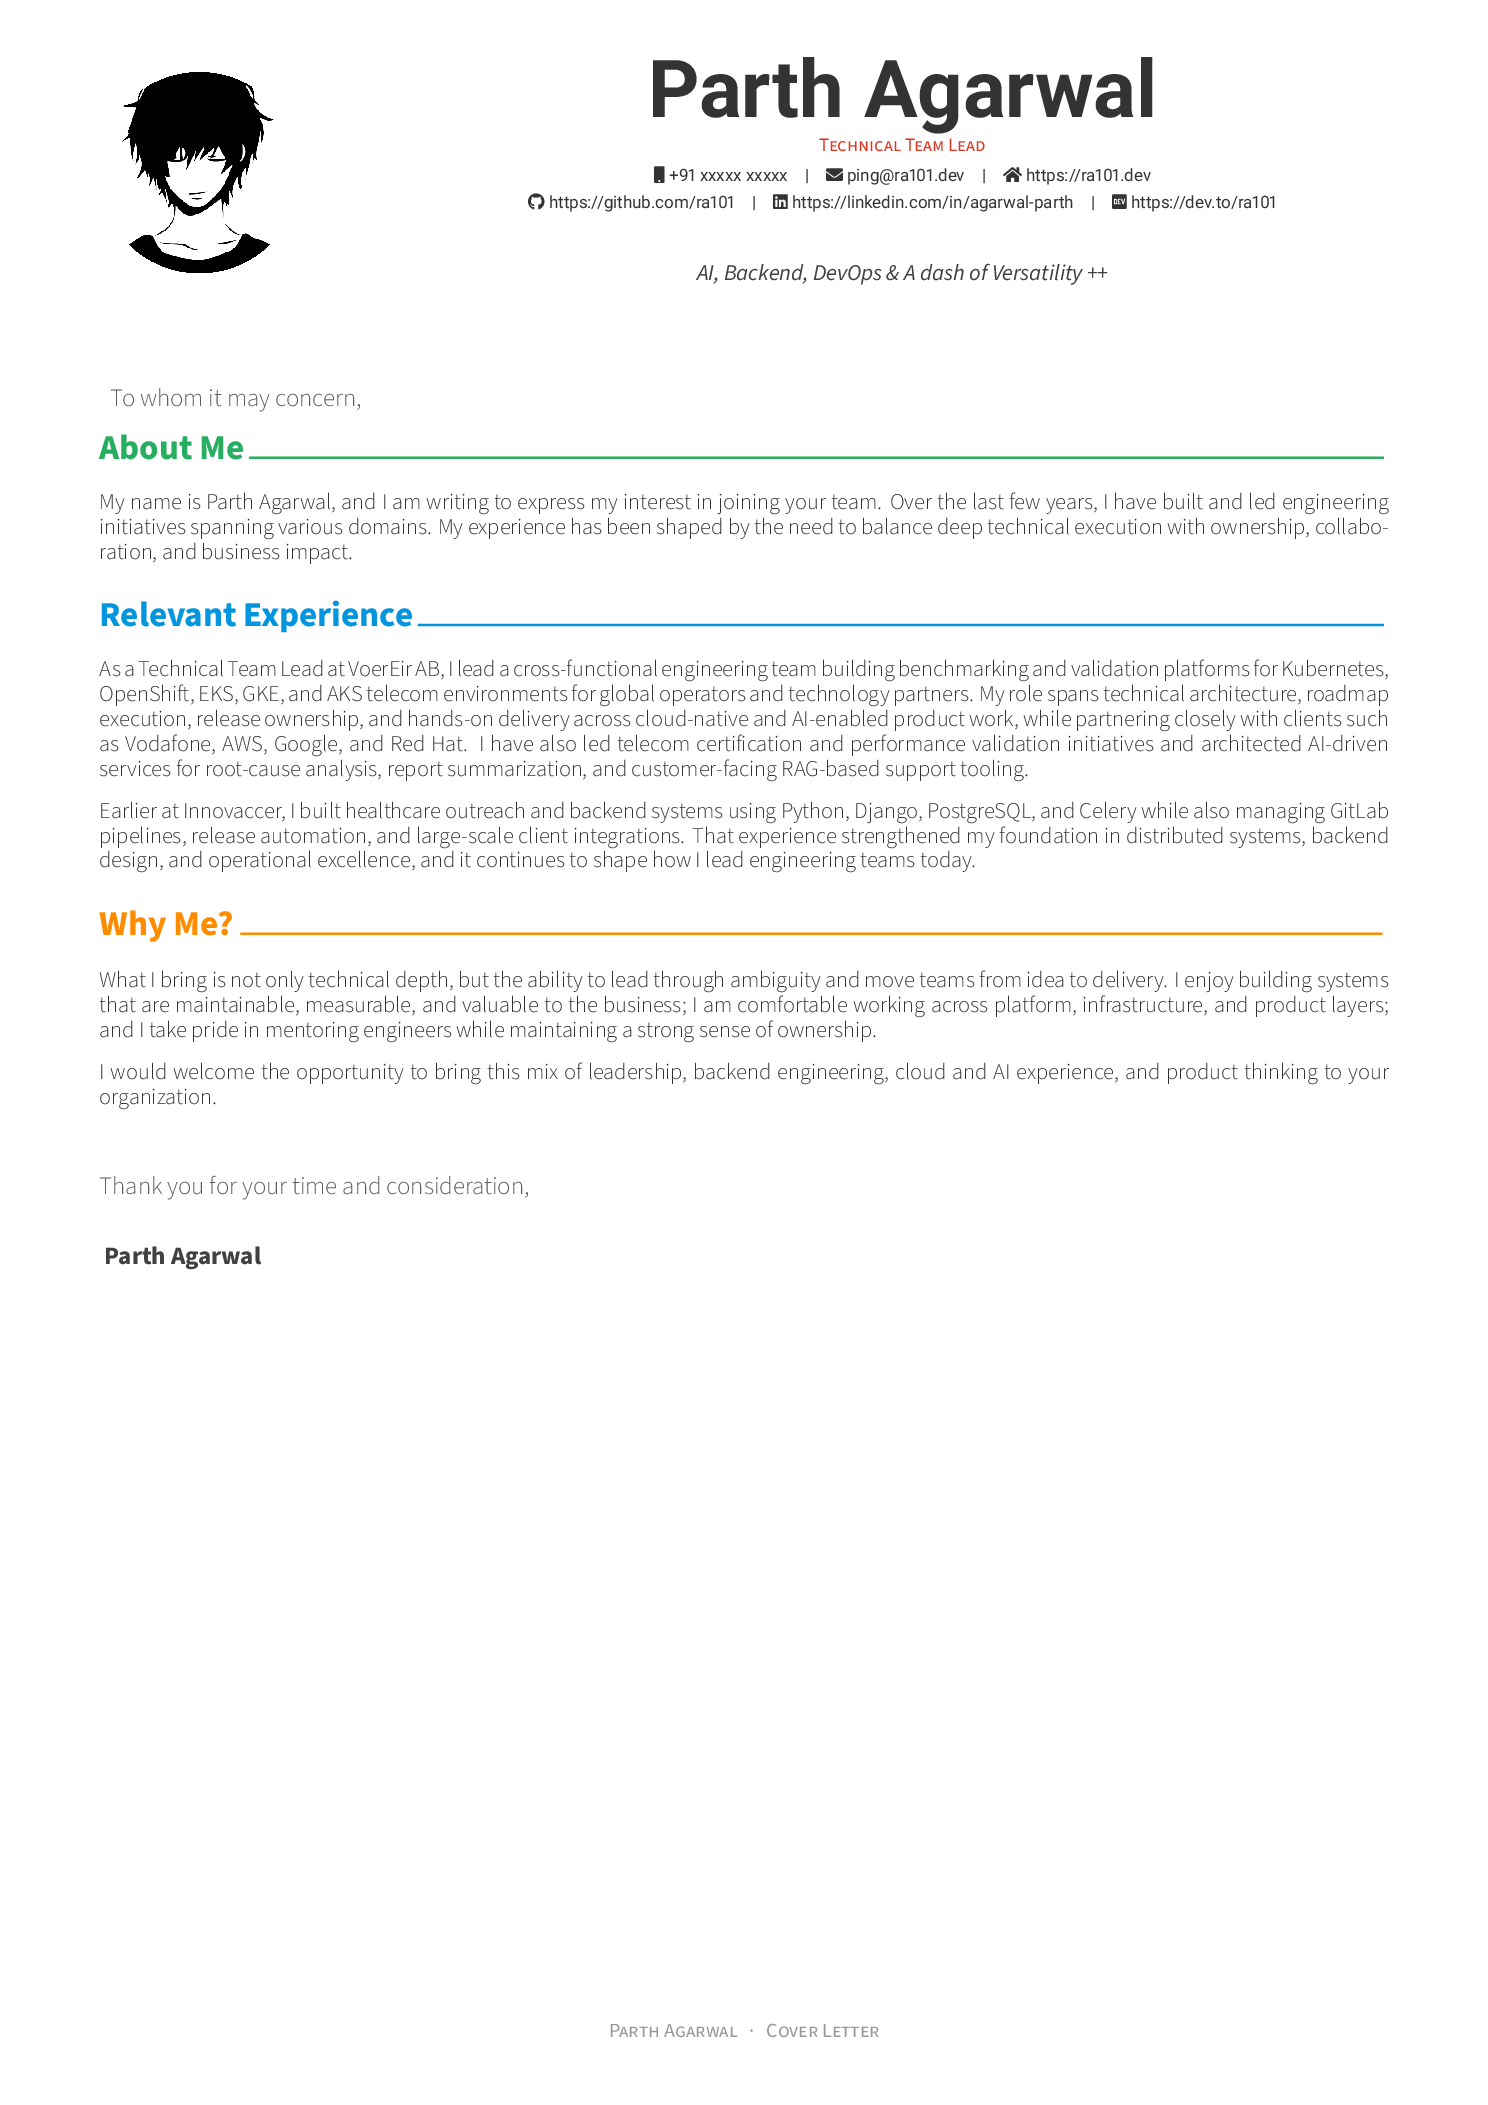
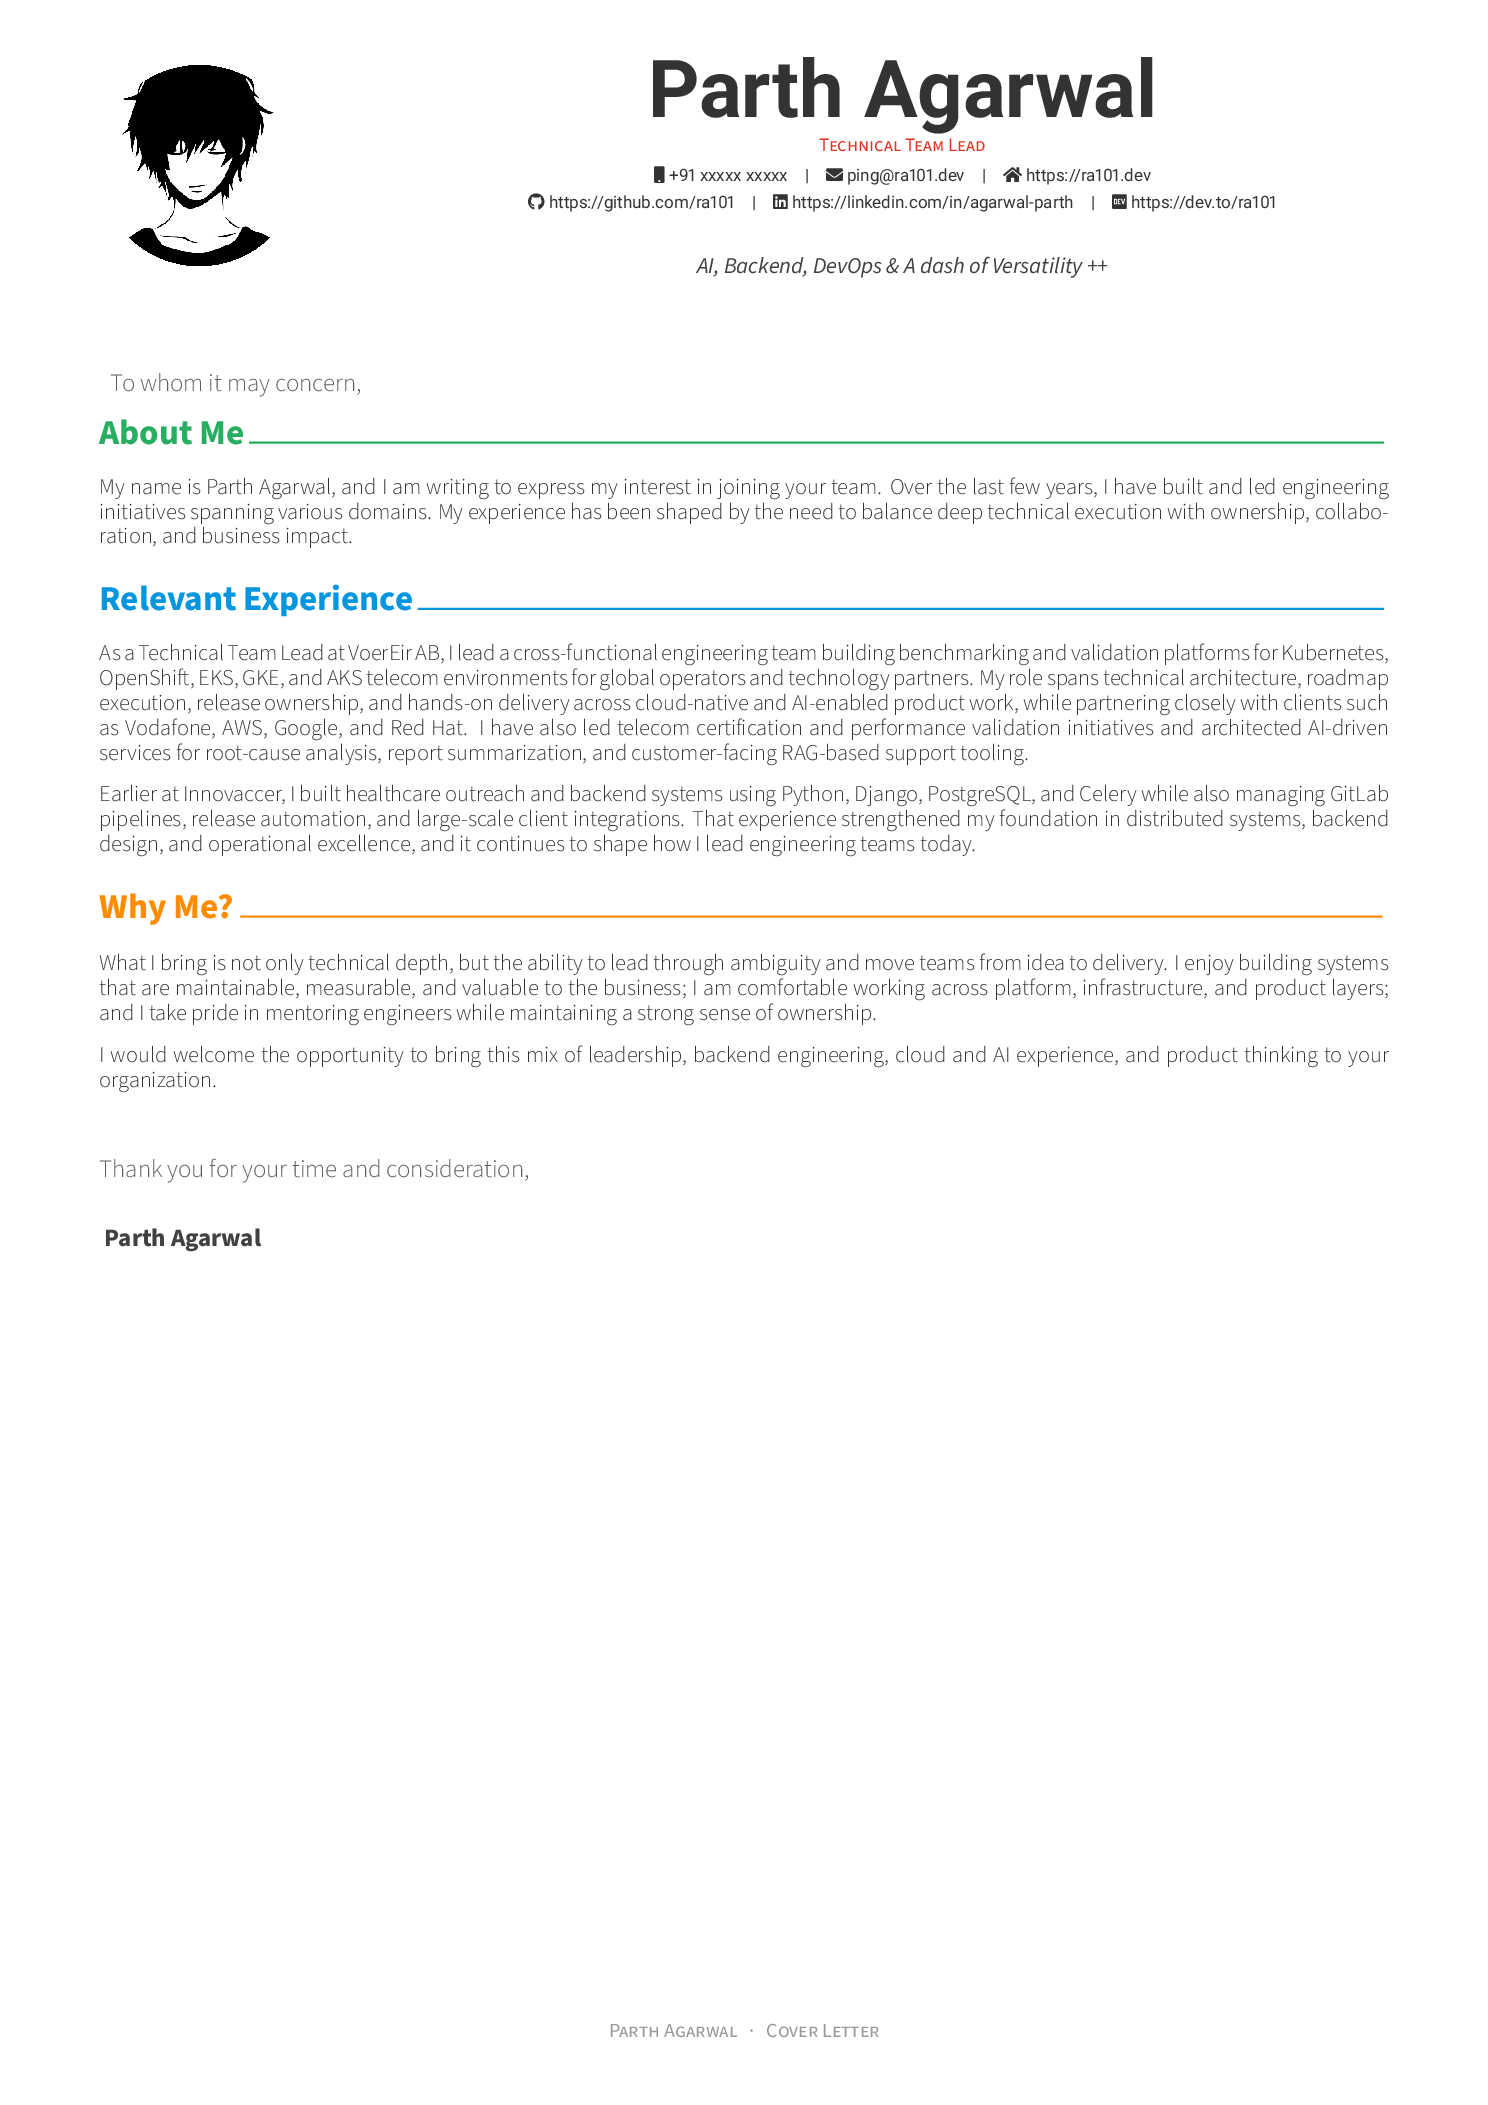
Update Skills Section

diff --git a/src/resume/skills.tex b/src/resume/skills.tex
@@ -1,27 +1,29 @@
 \cvsection{Skills}
 \begin{center}
+  \begin{minipage}[t]{1\textwidth}
   \begin{minipage}[t]{0.48\textwidth}
     \setlength{\tabcolsep}{0pt}
     \begin{tabular}{@{}p{0.26\linewidth}p{0.72\linewidth}@{}}
-      \cvskill {Languages} {Python, JavaScript, TypeScript, Java, Bash, PHP, Lua, Flutter}
-      \cvskill {Backend} {FastAPI, Django, Flask, REST APIs, Microservices, AsyncIO, Twilio, Celery, Crontab}
-      \cvskill {Frontend} {React, Vite, HTML, CSS, Express.js}
+      \cvskill {Languages} {Python, JavaScript, TypeScript, Java, Bash, C++, PHP, Lua, Flutter, Go (Golang), HTML, CSS, SQL}
+      \cvskill {Frameworks} {FastAPI, Django, Flask, React, Vite, Express.js, REST APIs, Microservices, AsyncIO, Twilio, Celery, WebSockets}
+      \cvskill {Project Mgmt} {Jira, Confluence, Agile, Scrum, Kanban}
     \end{tabular}
   \end{minipage}
   \begin{minipage}[t]{0.48\textwidth}
     \setlength{\tabcolsep}{0pt}
     \begin{tabular}{@{}p{0.28\linewidth}p{0.70\linewidth}@{}}
-      \cvskill {Cloud-Native} {Kubernetes, OpenShift, Docker, Helm, KubeVirt, MetalLB, Linux}
-      \cvskill {DevOps} {Git, Kubeflow, Jenkins, GitHub Actions, GitLab CI, CI/CD Automation, Container Security}
-      \cvskill {Databases} {MongoDB, SQL, PostgreSQL, MySQL, Redis}
+      \cvskill {Cloud-Native} {Kubernetes, OpenShift, Docker, Helm, KubeVirt, KNative, MetalLB, Linux, Cluster Security}
+      \cvskill {DevOps} {Jenkins, GitHub Actions, GitLab CI, CI/CD Pipelines, Container Security, DevSecOps, Git, GitOps, KubeFlow, Cron}
+      \cvskill {Databases} {MongoDB, PostgreSQL, MySQL, Redis}
     \end{tabular}
+  \end{minipage}
   \end{minipage}
 \end{center}
 \begin{center}
-  \begin{minipage}[t]{0.96\textwidth}
+  \begin{minipage}[t]{1\textwidth}
     \setlength{\tabcolsep}{0pt}
     \begin{tabular}{@{}p{0.13\linewidth}p{0.85\linewidth}@{}}
-      \cvskill {AI / ML} {Predictive ML, Generative AI, LLMs, RAG, Agentic AI, MCP, LangGraph, PyTorch, TensorFlow, Keras, Scikit-learn, XGBoost, MLflow, DeepEval, vLLM, LLM Inference, MLOps, LLM-D, Dialogflow}
+      \cvskill {AI / ML} {Predictive Modeling, NLP, Generative AI, LLM, RAG, Agentic AI, MCP, LangGraph, PyTorch, TensorFlow, Keras, Scikit-learn, XGBoost, MLflow, DeepEval, vLLM, LLM Inference, MLOps, LLM-D, Dialogflow, HuggingFace, AI Inference, AI Deployment}
     \end{tabular}
   \end{minipage}
 \end{center}

diff --git a/src/resume/experience.tex b/src/resume/experience.tex
@@ -30,7 +30,7 @@
         \item {\textbf{Led the architecture and development of a SaaS version of our product}, removing demo friction and driving higher user adoption.}
         \item {\textbf{Owned Cloud Certification Track}, a strategic initiative to establish our product as an industry standard. Oversaw a multitude of new features, collaborated directly with five of our high-value clients and finally publishing a joint whitepaper with Vodafone.}
         \item {\textbf{Championed the transition to AI-Native Development}, establishing engineering practices that maintained code quality, release reliability, and strict code privacy.}
-        \item {\textbf{Architected and developed AI microservices for data-intensive telecom systems}, integrating ML models for Root Cause Analysis for cluster tunings and impairments, LLM-powered summarization of final reports, and a directed Multi-Turn Retrieval-Augmented Generation (RAG) ChatBot for customer support.}
+        \item {\textbf{Architected and developed AI microservices for data-intensive telecom systems}, integrating ML models for Root Cause Analysis for cluster tunings and impairments, LLM-powered summarization of final reports, and a directed Multi-Turn Retrieval-Augmented Generation (RAG) ChatBot on On-Prem Clusters and AWS.}
       \end{cvitems}
     }
 
